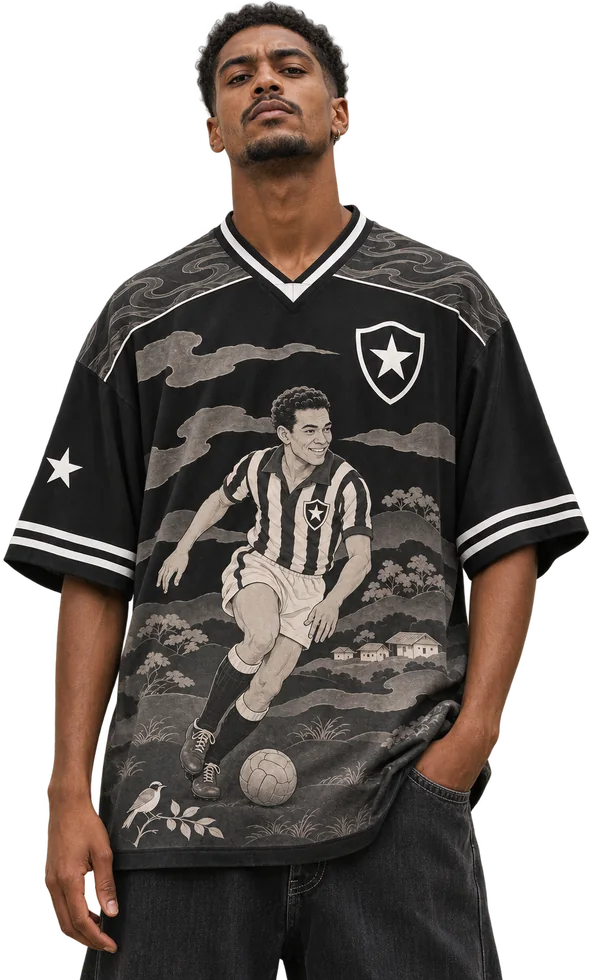
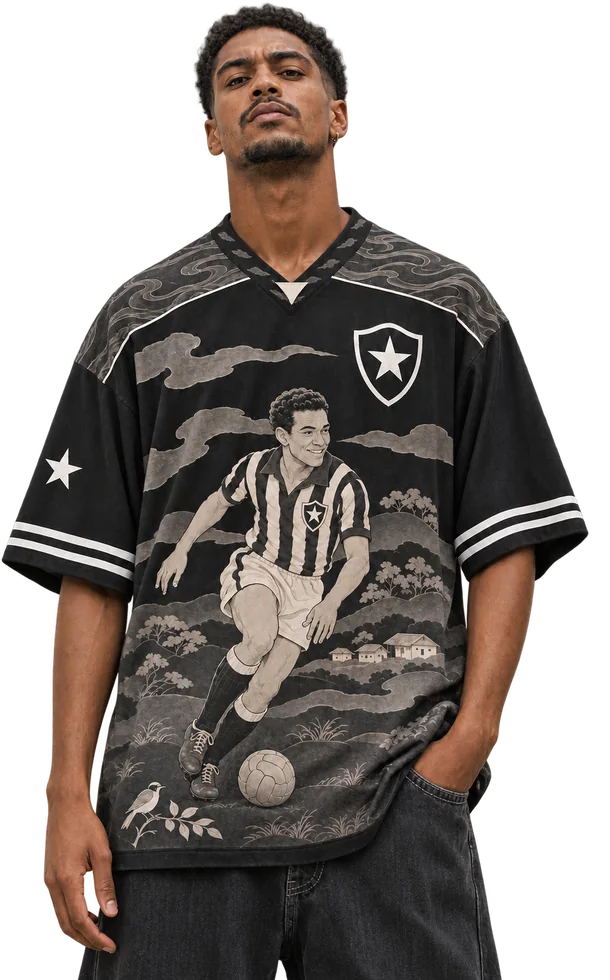
Maiores do Rio: foto vestida nas 16 estampas
- 11 fotos novas: as estampas que faltavam de Flamengo, Vasco e Fluminense e novas fotos principais
  de Flamengo, Botafogo e Fluminense
- Toda estampa abre em 'No corpo', com Frente e Costas; miniaturas mostram o modelo vestido
- Originais em originais/maiores-do-rio/vestidas/

Claude-Session: https://claude.ai/code/session_01LWKwsvGKQjaMGiuZcpz9Vi

diff --git a/index.html b/index.html
@@ -1298,9 +1298,9 @@ mountDC(Component, {"accent": "#F9CA0D", "whatsapp": "+55 21 96621-4050"}, 'app-
   var CLUBES = [
     { k: 'flamengo', nome: 'Flamengo', cor: '#C8102E', estampas: [
       { k: 'fla-heranca', nome: 'Herança', sub: 'Damasco botânico', foto: true },
-      { k: 'fla-yamato', nome: 'Yamato-e', sub: 'O urubu em estilo japonês' },
-      { k: 'fla-plumagem', nome: 'Plumagem clara', sub: 'Penas em tom sobre tom' },
-      { k: 'fla-territorio', nome: 'Território rubro', sub: 'Linhas topográficas' }
+      { k: 'fla-yamato', nome: 'Yamato-e', sub: 'O urubu em estilo japonês', corpo: true },
+      { k: 'fla-plumagem', nome: 'Plumagem clara', sub: 'Penas em tom sobre tom', corpo: true },
+      { k: 'fla-territorio', nome: 'Território rubro', sub: 'Linhas topográficas', corpo: true }
     ] },
     { k: 'botafogo', nome: 'Botafogo', cor: '#DADADA', estampas: [
       { k: 'bot-yamato', nome: 'Yamato-e · Garrincha', sub: 'Tributo a Garrincha em pintura japonesa', foto: true },
@@ -1310,15 +1310,15 @@ mountDC(Component, {"accent": "#F9CA0D", "whatsapp": "+55 21 96621-4050"}, 'app-
     ] },
     { k: 'vasco', nome: 'Vasco', cor: '#DADADA', estampas: [
       { k: 'vas-territorio', nome: 'Território da Colina', sub: 'A faixa e São Januário', foto: true },
-      { k: 'vas-yamato', nome: 'Yamato vascaíno', sub: 'A caravela em estilo japonês' },
-      { k: 'vas-heranca', nome: 'Herança Cruzmaltina', sub: 'Damasco com a cruz de malta' },
+      { k: 'vas-yamato', nome: 'Yamato vascaíno', sub: 'A caravela em estilo japonês', corpo: true },
+      { k: 'vas-heranca', nome: 'Herança Cruzmaltina', sub: 'Damasco com a cruz de malta', corpo: true },
       { k: 'vas-trama', nome: 'Trama Clara Vascaína', sub: 'Trama náutica em tom sobre tom', corpo: true }
     ] },
     { k: 'fluminense', nome: 'Fluminense', cor: '#8A1538', estampas: [
       { k: 'flu-trama', nome: 'Trama Clara', sub: 'Folhagem botânica tricolor', foto: true },
-      { k: 'flu-yamato', nome: 'Yamato Tricolor', sub: 'Ilustração clássica em estilo japonês' },
-      { k: 'flu-heranca', nome: 'Herança Tricolor', sub: 'Damasco em verde e grená' },
-      { k: 'flu-territorio', nome: 'Território Tricolor', sub: 'Verde e grená em linhas topográficas' }
+      { k: 'flu-yamato', nome: 'Yamato Tricolor', sub: 'Ilustração clássica em estilo japonês', corpo: true },
+      { k: 'flu-heranca', nome: 'Herança Tricolor', sub: 'Damasco em verde e grená', corpo: true },
+      { k: 'flu-territorio', nome: 'Território Tricolor', sub: 'Verde e grená em linhas topográficas', corpo: true }
     ] }
   ];
   var raiz = document.getElementById('dia-maiores');

diff --git a/CLAUDE.md b/CLAUDE.md
@@ -36,7 +36,7 @@ Landing page estática da **Marol Store** (camisas personalizadas). Tudo está e
 - HTML em `#dia-maiores`, estilos em `<style id="estilos-maiores">`, dados e lógica no script "Maiores do Rio" no fim do `index.html` (lista `CLUBES`: `k`, `nome`, `cor`, `estampas` com `k`, `nome`, `sub` e `foto: true` na que o modelo veste; `corpo: true` nas outras que têm foto vestida, arquivo `corpo-<k>.webp`). Fica fora do `Component`.
 - Arquivos em `assets/maiores/`: `escudo-<clube>.webp`, `modelo-<clube>.webp`, `<prefixo>-<estampa>-frente.webp` / `-costas.webp` (prefixos `fla-`, `bot-`, `vas-`, `flu-`; estampas `yamato`, `heranca`, `trama`/`plumagem`, `territorio`). Originais em `originais/maiores-do-rio/` (não vão para o ar).
 - Mockups de camisa em fundo bege (frente | costas lado a lado): recortar com `tools/recorte_mockup_bege.py <png> <saída>` (`--sombra` tira a sombra cinza embaixo de barras escuras, não usar em camisas de barra clara; `--grabcut` para fundo com degradê/vinheta ou quando sobra o título grudado na camisa).
-- Fotos vestidas extras: Botafogo Herança, Trama Clara e Território; Vasco Trama Clara.
+- As 16 estampas têm foto vestida (principal = `modelo-<clube>.webp`, demais = `corpo-<k>.webp`). Originais das fotos em `originais/maiores-do-rio/vestidas/`.
 - Todas as 16 estampas no ar. Estampa vestida pelo modelo: Flamengo Herança, Botafogo Yamato-e (Garrincha), Vasco Território da Colina, Fluminense Trama Clara.
 
 ## Imagens
